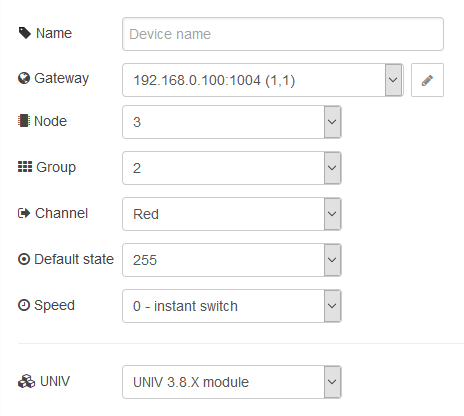
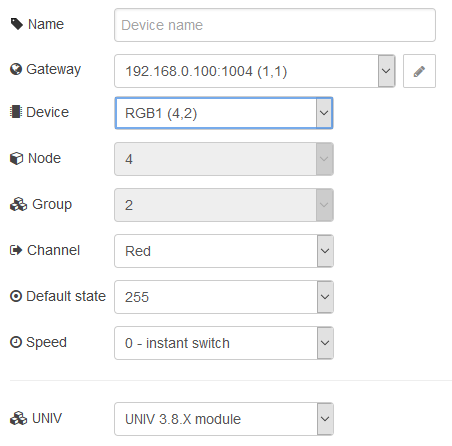
v2.0 notes

diff --git a/README.md b/README.md
@@ -11,11 +11,12 @@ Nodes are using the [Hapcan ethernet module](http://hapcan.com/devices/universal
 - Hapcan based infrastructure
 - Hapcan ethernet module
 
-# New in version 1.5
+# New in version 2.0
 
-**Custom input** and **custom output** nodes, which can handle each Hapcan message. Now it is easy to use devices which hasn't its own control nodes, including Your own custom messages and devices (based on [Hapcanuino](https://github.com/Onixarts/Hapcanuino) project for example).
+Added new **Discover devices** function which finds Hapcan devices in the bus. Once devices are found they are stored in a configuration node, so the discover function should be used only when Hapcan network is somehow changed. Devices list is then used in nodes for quick device selection - no need to set node and group anymore! But You can if You want.
 
-There is a one, possibly breaking change, with `hapcanFrame` property emitted with each the input nodes. It was emitted as an integer hex number, but in fact, it wasn't hex. For example, a value of `302` which look like a Hapcan hex frame number it's in fact falue of `770` in decimal system. So if you wan't compare new `hapcanFrame` with string `'303'` You have to make some computations first. This change/fix is due to problem with other frames hex representation such as `0x10A` `0x10B` etc as an integer number using just digits.
+There is also new frames receiving algorithm implemented, which should be shorter frames proof. This frames emitted by Hapcan programmer when connecting to the bus cause invalid frame errors and broke whole receiving mechanizm.
+
 
 # Instalation
 ## Using NODE-RED installer
@@ -81,3 +82,7 @@ Example of RGB output node configuration - it contains each control frame fields
 Thera are also Custom input and output nodes which allows You to send and receive any messages to and from the bus. You can name each data byte as You want. It also has a preset menu, with common Hapcan's messages frames, ready to be used.
 
 ![Custom nodes](img/custom-node-configuration.png)
+
+**Discover devices** function allows You to search the Hapcan bus for devices present, and then select them easily in any node configuration instead remember necessity for node and group number for each device.
+
+![Discover devices](img/discover-devices.gif)
